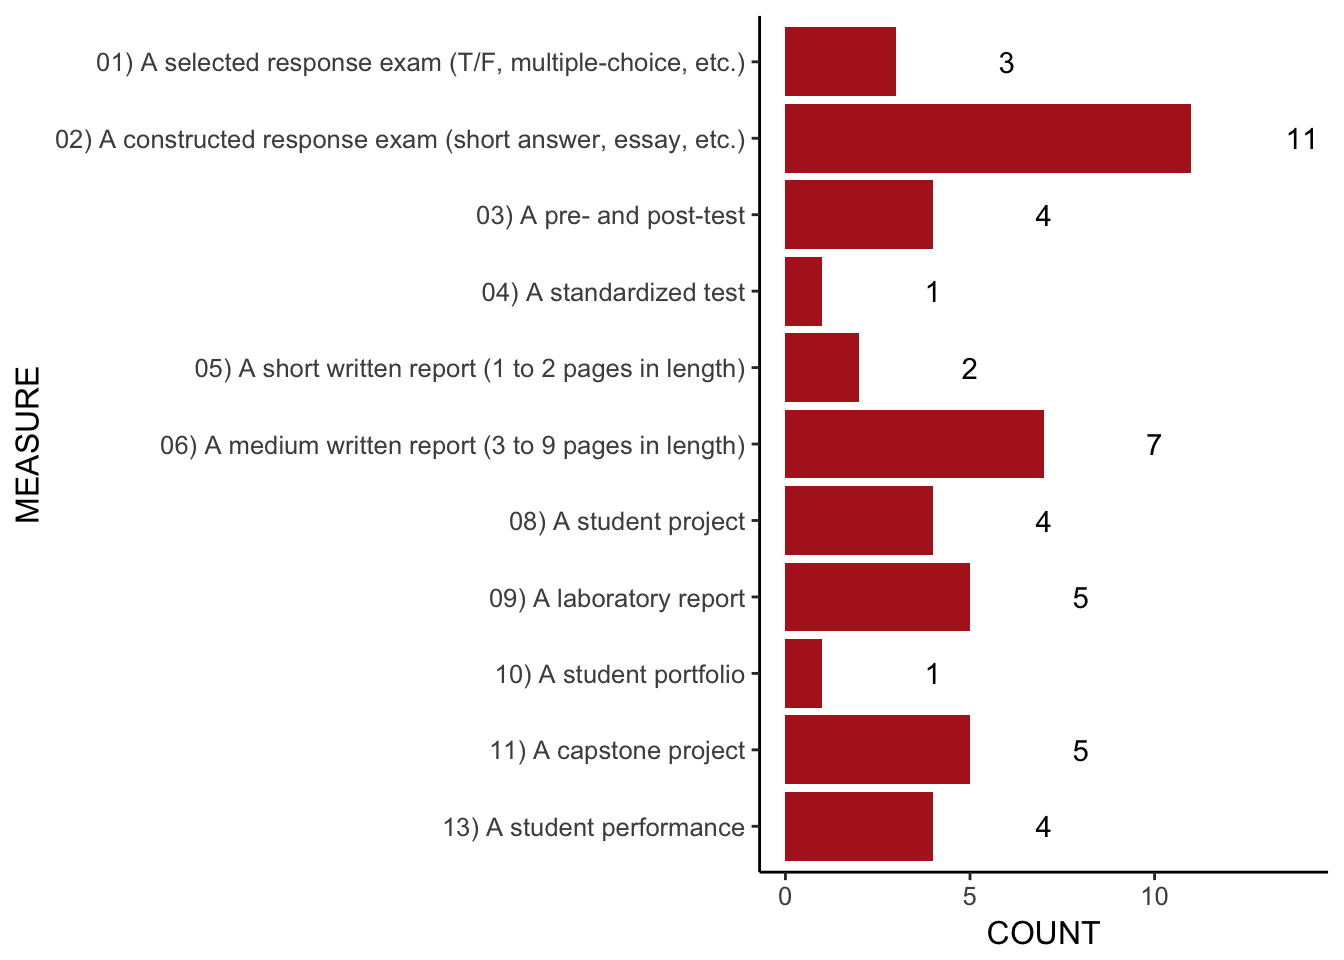
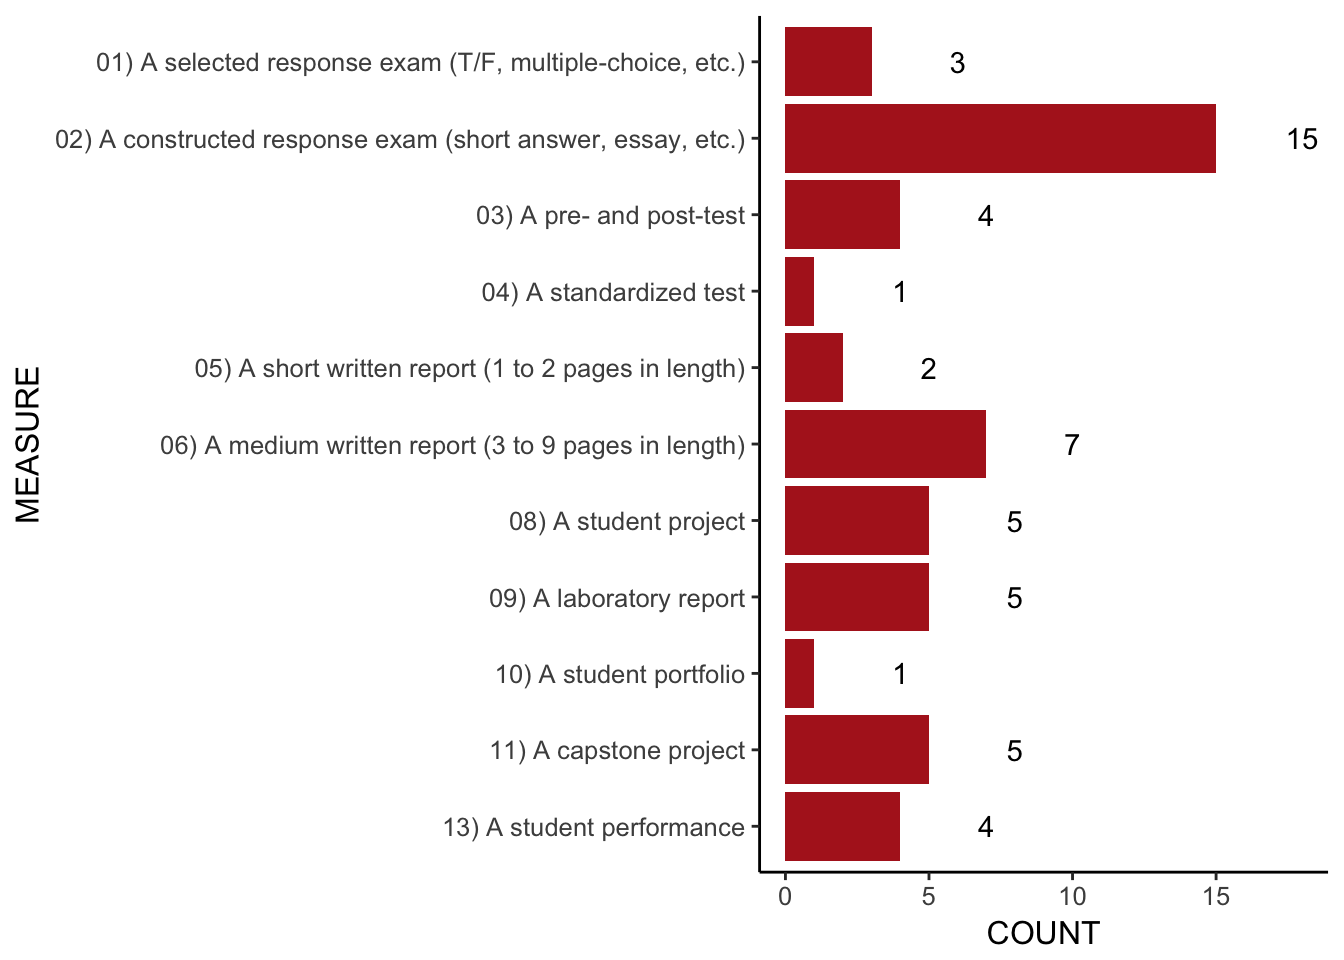
New build

diff --git a/docs/results.html b/docs/results.html
@@ -104,7 +104,7 @@
             <section class="normal" id="section-">
 <div id="results" class="section level1 unnumbered">
 <h1>Results and Discussion</h1>
-<p>A total of 47 registrations have been completed as of February 18, 2018. This includes a total of 40 different courses. The distribution of the registrations between the eight core competencies is shown in figure <a href="results.html#fig:plotByCompetency">1</a>.</p>
+<p>A total of 52 registrations have been completed as of February 23, 2018. This includes a total of 44 different courses. The distribution of the registrations between the eight core competencies is shown in figure <a href="results.html#fig:plotByCompetency">1</a>.</p>
 <div class="figure"><span id="fig:plotByCompetency"></span>
 <img src="Report-1801_files/figure-html/plotByCompetency-1.png" alt="Distribution of course registrations by core competency." width="672" />
 <p class="caption">
@@ -112,11 +112,11 @@ Figure 1: Distribution of course registrations by core competency.
 </p>
 </div>
 <ul>
-<li>A total of 19 exams were registered (40.4%).<br />
+<li>A total of 23 exams were registered (44.2%).<br />
 </li>
-<li>A total of 24 student products were registered (51.1%).<br />
+<li>A total of 25 student products were registered (48.1%).<br />
 </li>
-<li>A total of 4 student performances were registered (8.5%).</li>
+<li>A total of 4 student performances were registered (7.7%).</li>
 </ul>
 <div class="figure"><span id="fig:plotByMeasure"></span>
 <img src="Report-1801_files/figure-html/plotByMeasure-1.png" alt="Distribution of course registrations by standardized measure." width="672" />
